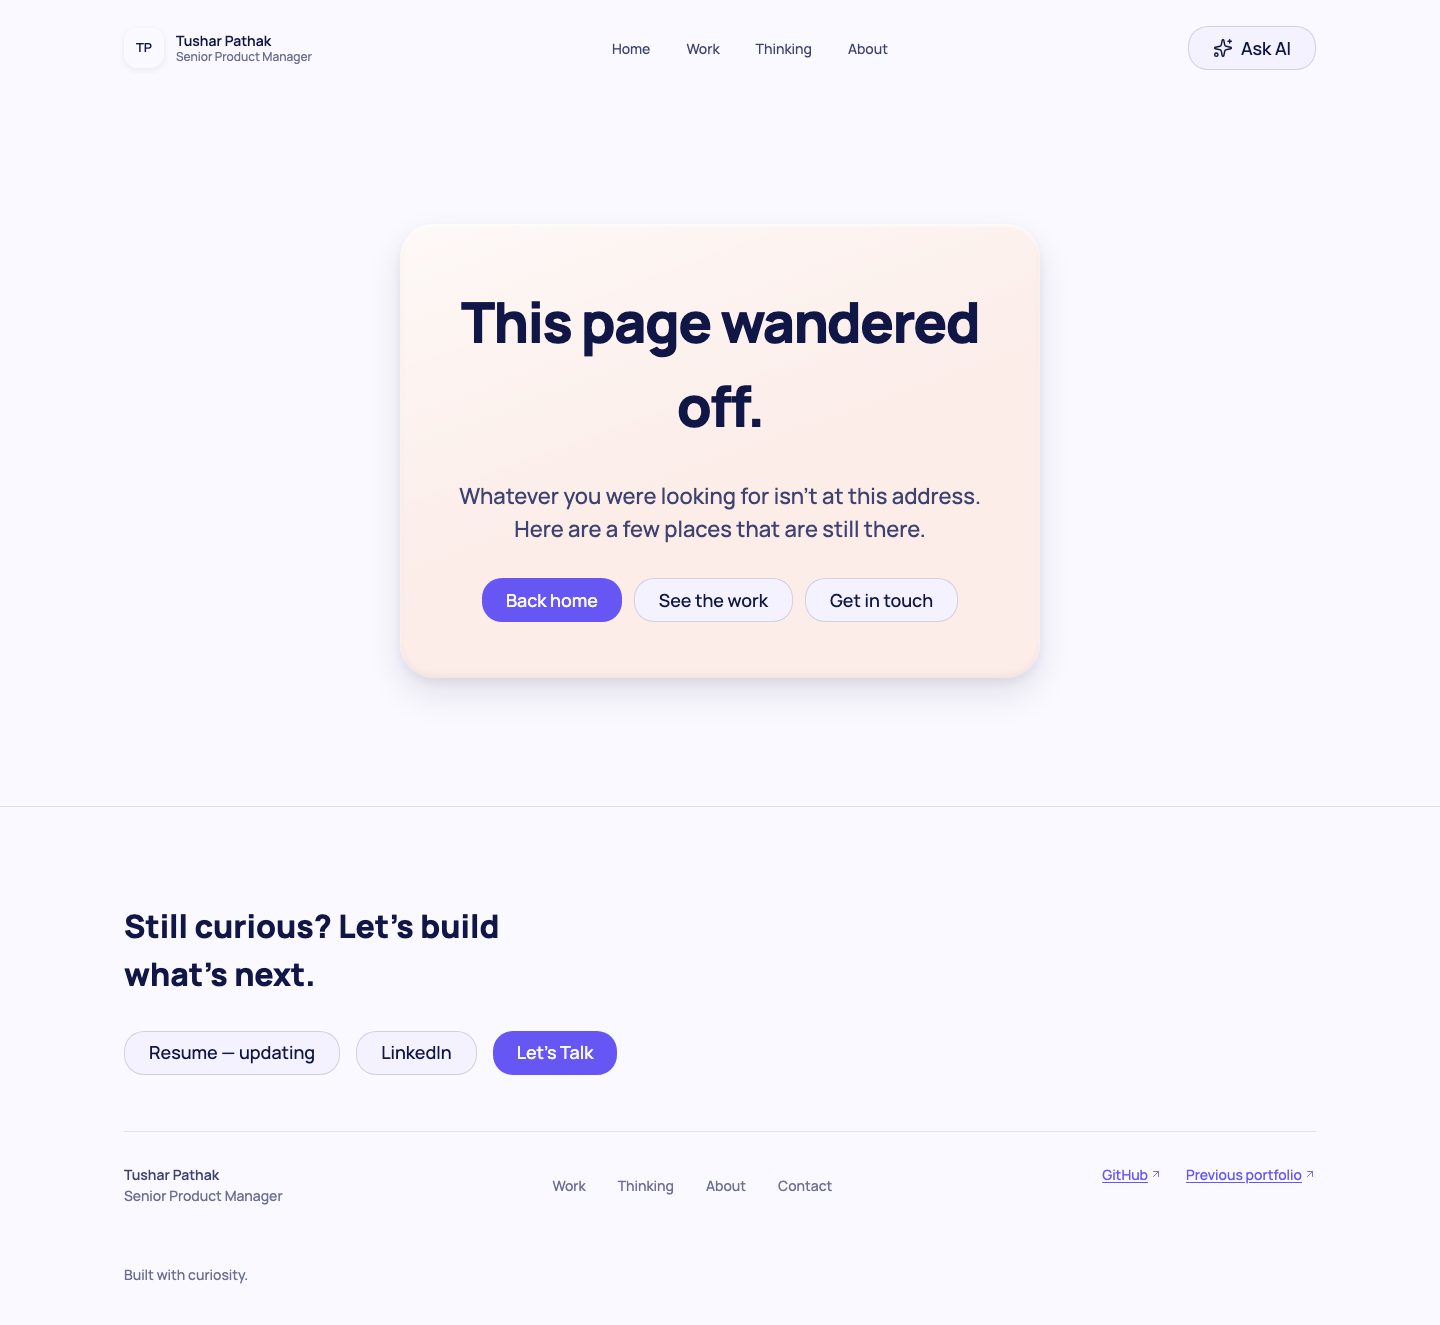
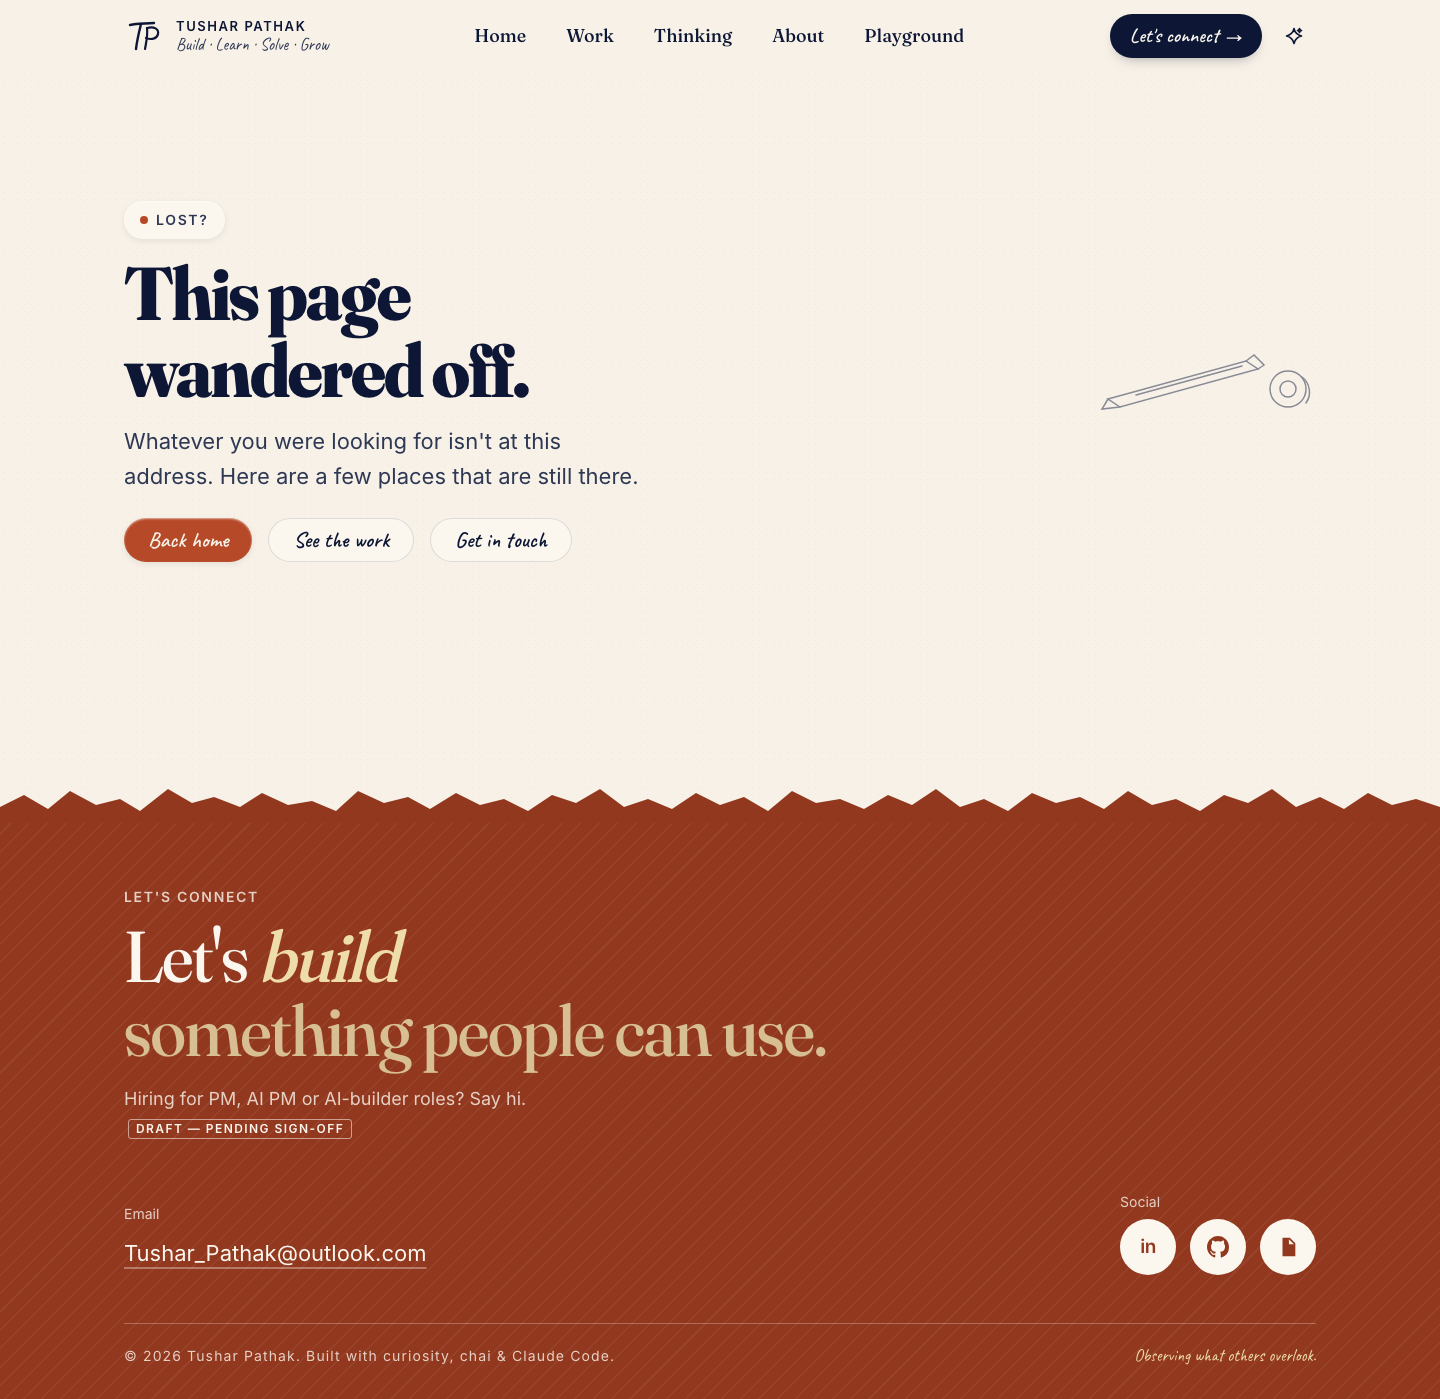
TSK-47: rebuild 404 in the paper system with the reused tools sketch
Replaces the legacy clay `not-found.tsx` with the paper spec (Design.md §4.3):
eyebrow, h1, lead, three CTAs, and the playground's tools sketch (one counted
decoration) at the right. Updates not-found.spec.ts for TC-171 (path, decoration
count, footer count, no-img check).

diff --git a/tests/e2e/not-found.spec.ts b/tests/e2e/not-found.spec.ts
@@ -1,51 +1,30 @@
 /**
- * not-found.spec.ts (TKT-46, M-006) — `app/not-found.tsx`, the site-wide 404.
+ * not-found.spec.ts (TSK-47, TKT-88, M-009 — TC-171) — `app/not-found.tsx`, the site-wide 404.
  *
  * Runs in all four viewport projects (w390/w768/w1024/w1440, playwright.config.ts).
- *   AC1 — `/nope` (an unknown path) responds with a real HTTP 404 AND renders this page's own h1
- *         (not a framework error page / blank body).
- *   AC2 — the three ways-back links (`/`, `/work`, `/contact`) exist and resolve 200.
- *   AC3 — axe clean + no horizontal overflow @390/1440 (the harness's standard two-width sweep,
- *         same convention as contact.spec.ts/about.spec.ts).
- * Plus: header + footer are present (inherited from the root layout, not duplicated here), and the
- * TDD-gate screenshot pack @390/1440.
+ *   Step 1 — an unknown path (`/definitely-missing`) responds with a real HTTP 404 AND renders
+ *            this page's own h1 (not a framework error page / blank body); the three ways-back
+ *            links (`/`, `/work`, `/contact`) exist in the page content.
+ *   Step 2 — the section's decoration count is exactly 1 (the reused `tools` sketch), and exactly
+ *            one `<footer>` renders (the global `BandFooter`, inherited from the root layout).
+ *   Step 3 — axe clean at 390 and 1440.
+ *   Step 4 — no illustration `<img>` (no new illustration spend, Design.md §12.4) and no
+ *            horizontal overflow at 390.
  */
 import { test, expect } from "./fixtures";
 
+const PATH = "/definitely-missing";
 const width = (page: import("@playwright/test").Page) => page.viewportSize()?.width ?? 0;
 
 // ---------------------------------------------------------------------------
-// AC1 — unknown path returns a real HTTP 404 and renders the page.
+// Step 1 — unknown path returns a real HTTP 404, renders the page, and carries the three CTAs.
 // ---------------------------------------------------------------------------
-test("an unknown path responds 404 and renders the not-found page", async ({ page }) => {
-  const response = await page.goto("/nope", { waitUntil: "load" });
+test("an unknown path responds 404 and renders the not-found page with its three CTAs", async ({ page }) => {
+  const response = await page.goto(PATH, { waitUntil: "load" });
   expect(response?.status(), "an unknown path must respond with a real HTTP 404").toBe(404);
   await expect(page.getByRole("heading", { level: 1 })).toHaveText("This page wandered off.");
-});
 
-// ---------------------------------------------------------------------------
-// Header + footer are inherited from the root layout, not duplicated on this page.
-// ---------------------------------------------------------------------------
-test("header and footer chrome are present on the 404 page", async ({ page }) => {
-  test.skip(width(page) !== 1440, "chrome presence is viewport-independent; checked once at w1440");
-  await page.goto("/nope", { waitUntil: "load" });
-
-  await expect(page.locator("header")).toBeVisible();
-  // .first(): the desktop nav and the (closed, off-canvas) MobileMenu dialog nav share the same
-  // aria-label (eval-015.spec.ts uses the identical .first() pattern) — this only asserts primary
-  // nav chrome exists, not which instance.
-  await expect(page.locator("nav[aria-label='Primary']").first()).toBeVisible();
-  await expect(page.locator("footer")).toBeVisible();
-});
-
-// ---------------------------------------------------------------------------
-// AC2 — the three ways-back links exist (scoped to <main>, since Header/Footer carry their own
-// "/", "/work", "/contact" links) and resolve 200.
-// ---------------------------------------------------------------------------
-test("the three ways-back links exist in the page content and resolve", async ({ page }) => {
   test.skip(width(page) !== 1440, "link resolution is viewport-independent; checked once at w1440");
-  await page.goto("/nope", { waitUntil: "load" });
-
   const main = page.locator("main");
   await expect(main.locator('a[href="/"]')).toHaveCount(1);
   await expect(main.locator('a[href="/work"]')).toHaveCount(1);
@@ -58,17 +37,57 @@ test("the three ways-back links exist in the page content and resolve", async ({
 });
 
 // ---------------------------------------------------------------------------
-// AC3 — axe clean + no overflow @390/1440.
+// Header + footer are inherited from the root layout, not duplicated on this page.
+// ---------------------------------------------------------------------------
+test("header and footer chrome are present on the 404 page", async ({ page }) => {
+  test.skip(width(page) !== 1440, "chrome presence is viewport-independent; checked once at w1440");
+  await page.goto(PATH, { waitUntil: "load" });
+
+  await expect(page.locator("header")).toBeVisible();
+  // .first(): the desktop nav and the (closed, off-canvas) MobileMenu dialog nav share the same
+  // aria-label — this only asserts primary nav chrome exists, not which instance.
+  await expect(page.locator("nav[aria-label='Primary']").first()).toBeVisible();
+});
+
+// ---------------------------------------------------------------------------
+// Step 2 — exactly one counted decoration (the reused `tools` sketch) and exactly one footer.
+// ---------------------------------------------------------------------------
+test("@EVAL-018 the section's only decoration is the reused tools sketch; exactly one footer renders", async ({
+  page,
+}) => {
+  test.skip(width(page) !== 1440, "decoration/footer count is viewport-independent; checked once at w1440");
+  await page.goto(PATH, { waitUntil: "load" });
+
+  const main = page.locator("main");
+  const decor = main.locator("[data-decor]");
+  await expect(decor).toHaveCount(1);
+  await expect(decor).toHaveAttribute("data-decor", "sketch");
+  await expect(decor).toHaveAttribute("data-sketch", "tools");
+
+  await expect(page.locator("footer")).toHaveCount(1);
+});
+
+// ---------------------------------------------------------------------------
+// Step 3 — axe clean @390/1440.
 // ---------------------------------------------------------------------------
 test("@EVAL-006 axe clean on the 404 page", async ({ page, axe }) => {
   test.skip(width(page) !== 390 && width(page) !== 1440, "axe sweep runs at 390 and 1440");
-  await page.goto("/nope", { waitUntil: "load" });
+  await page.goto(PATH, { waitUntil: "load" });
   await axe(page);
+});
+
+// ---------------------------------------------------------------------------
+// Step 4 — no illustration `<img>`, no overflow @390.
+// ---------------------------------------------------------------------------
+test("no illustration image renders on the 404 page", async ({ page }) => {
+  test.skip(width(page) !== 1440, "markup shape is viewport-independent; checked once at w1440");
+  await page.goto(PATH, { waitUntil: "load" });
+  await expect(page.locator("main img")).toHaveCount(0);
 });
 
 test("@EVAL-008 no horizontal overflow on the 404 page", async ({ page, noOverflow }) => {
   test.skip(width(page) !== 390 && width(page) !== 1440, "overflow sweep runs at 390 and 1440");
-  await page.goto("/nope", { waitUntil: "load" });
+  await page.goto(PATH, { waitUntil: "load" });
   await noOverflow(page);
 });
 
@@ -78,7 +97,7 @@ test("@EVAL-008 no horizontal overflow on the 404 page", async ({ page, noOverfl
 test("screenshot pack", async ({ page }) => {
   const w = width(page);
   test.skip(w !== 390 && w !== 1440, "screenshots captured at 390 and 1440 only");
-  await page.goto("/nope", { waitUntil: "load" });
+  await page.goto(PATH, { waitUntil: "load" });
   await page.screenshot({
     path: `docs/screenshots/not-found/${w}.png`,
     fullPage: true,

diff --git a/app/not-found.tsx b/app/not-found.tsx
@@ -1,49 +1,66 @@
-import { ClayButton } from "@/components/clay/ClayButton";
-import { ClayCard } from "@/components/clay/ClayCard";
+import Link from "next/link";
 import { Section } from "@/components/layout/Section";
+import { Sketch } from "@/components/paper/Sketch";
 
 /**
- * `app/not-found.tsx` (TKT-46, M-006) — the site-wide 404. Next's App Router renders this file
- * for any unmatched path (and for an explicit `notFound()` call, e.g. `app/work/[slug]/page.tsx`
- * on an unknown slug) INSIDE the root layout (`app/layout.tsx`), so `Header`/`Footer`/`SkipLink`/
- * `AskProvider` are inherited for free — nothing is duplicated here. The framework also sets the
- * HTTP 404 status itself for both paths; this file only supplies the content.
+ * `app/not-found.tsx` (TSK-47, TKT-88, M-009 — Design.md §4.3) — the site-wide 404. Next's App
+ * Router renders this file, inside the root layout, for any unmatched path and for an explicit
+ * `notFound()` call elsewhere (e.g. `app/work/[slug]/page.tsx` on an unknown slug), and sets the
+ * HTTP 404 status itself — this file only supplies the content. `Header`/`BandFooter`/`SkipLink`
+ * are inherited from `app/layout.tsx`, so nothing here duplicates them (TC-171 step 2's "exactly
+ * one footer" holds for free).
  *
- * One centred hero-tier `ClayCard` (same "flat page, one clay tile" shape `ContactCard` already
- * established for `/contact`), with a real `h1` (TKT-43 a11y scar: a heading-size token demands a
- * real heading element at a skip-free level — this page's own h1 is the only heading here, so the
- * outline stays clean) and three ways back: `/`, `/work`, `/contact`. No motion beyond the shared
- * `ClayButton` hover/press physics, which already collapse under `motion-reduce` — nothing here
- * autoplays. Static/server-rendered, same as every other route (TP1): no client data-fetching.
+ * One flat `paper` `<section>` (the site's default background — no `data-paper` override, per
+ * Design.md §4.3): eyebrow "Lost?" (plain label, deliberately NOT the `Annotation` component —
+ * §4.3 calls it "annotation-free"), h1, a short lead, and three ways back. The pencil-and-tape
+ * `tools` sketch is REUSED verbatim from `/playground` (`components/paper/sketch-paths.ts`) — no
+ * new illustration spend (§12.4) — and is this section's only counted decoration (TC-171 step 2).
+ * It hides below `lg` (1024px), mirroring the same sketch's own `display:none` breakpoint on the
+ * `/playground` bench board mockup, so it never risks overflow at 390 (TC-171 step 4).
  */
 export default function NotFound() {
   return (
-    <Section id="not-found" aria-label="Page not found">
-      <ClayCard
-        tier="hero"
-        tone="peach"
-        padding="hero"
-        className="mx-auto flex max-w-[640px] flex-col items-center gap-[var(--space-6)] text-center"
-      >
-        <h1 className="text-[length:var(--text-h2)] font-extrabold tracking-[var(--tracking-hero)] text-navy">
+    <Section
+      aria-label="Page not found"
+      containerClassName="grid items-center gap-[var(--space-8)] lg:grid-cols-[1fr_auto]"
+    >
+      <div className="flex max-w-[52ch] flex-col gap-[var(--space-4)]">
+        <span className="inline-flex w-fit items-center gap-[var(--space-2)] rounded-[var(--radius-pill)] bg-ivory px-[var(--space-4)] py-[var(--space-2)] text-[length:var(--text-caption)] font-semibold uppercase tracking-[var(--tracking-eyebrow)] text-navy-2 shadow-[var(--shadow-utility)]">
+          <span aria-hidden="true" className="inline-block h-2 w-2 rounded-full bg-rust" />
+          Lost?
+        </span>
+        <h1 className="text-[length:clamp(42px,5.2vw,76px)] font-extrabold tracking-[var(--tracking-hero)] text-navy">
           This page wandered off.
         </h1>
         <p className="text-[length:var(--text-lead)] text-navy-2">
           Whatever you were looking for isn&apos;t at this address. Here are a few places that are still there.
         </p>
-
-        <div className="flex flex-wrap items-center justify-center gap-[var(--space-3)]">
-          <ClayButton variant="primary" href="/">
+        <div className="mt-[var(--space-2)] flex flex-wrap items-center gap-[var(--space-4)]">
+          <Link
+            href="/"
+            data-hand="cta"
+            className="focus-ring inline-flex min-h-[44px] items-center rounded-[var(--radius-pill)] bg-rust px-[var(--space-5)] font-hand text-[22px] font-semibold text-paper shadow-[var(--shadow-utility)] transition-transform duration-150 ease-out hover:-translate-y-px motion-reduce:hover:translate-y-0"
+          >
             Back home
-          </ClayButton>
-          <ClayButton variant="secondary" href="/work">
+          </Link>
+          <Link
+            href="/work"
+            data-hand="cta"
+            className="focus-ring inline-flex min-h-[44px] items-center rounded-[var(--radius-pill)] border border-[var(--line)] bg-ivory px-[var(--space-5)] font-hand text-[22px] font-semibold text-navy transition-colors duration-150 ease-out hover:border-[var(--color-navy-2)]"
+          >
             See the work
-          </ClayButton>
-          <ClayButton variant="secondary" href="/contact">
+          </Link>
+          <Link
+            href="/contact"
+            data-hand="cta"
+            className="focus-ring inline-flex min-h-[44px] items-center rounded-[var(--radius-pill)] border border-[var(--line)] bg-ivory px-[var(--space-5)] font-hand text-[22px] font-semibold text-navy transition-colors duration-150 ease-out hover:border-[var(--color-navy-2)]"
+          >
             Get in touch
-          </ClayButton>
+          </Link>
         </div>
-      </ClayCard>
+      </div>
+
+      <Sketch variant="tools" className="hidden w-[220px] shrink-0 justify-self-end lg:block" />
     </Section>
   );
 }

diff --git a/docs/reports/TSK-47.md b/docs/reports/TSK-47.md
@@ -1,0 +1,40 @@
+# TSK-47 · 404 in the paper system
+
+Branch `m009/tkt-88c`, worktree `Portfolio-m009-tkt-88c`. Parent TKT-88 (`TASK-83`), TC-171, Design.md §4.3 / §3.3.
+
+## AC checklist (TKT-88 AC3)
+
+- [x] Renders at an unknown route (`/definitely-missing`) with HTTP 404 status — `not-found.spec.ts` step 1.
+- [x] Three CTAs present and resolving 200: "Back home" → `/`, "See the work" → `/work`, "Get in touch" → `/contact`.
+- [x] Band footer follows (inherited from `app/layout.tsx`; `footer` count = 1).
+- [x] axe clean at 390 and 1440.
+- [x] Decoration count = 1 (`[data-decor]` in `<main>` = 1, the reused `tools` sketch), matching Design.md §3.3's "404 → tools sketch (reused from playground) → 1".
+- [x] No overflow at 390.
+- [x] No `<img>` (no new illustration spend, §12.4).
+
+## What changed
+
+- `app/not-found.tsx` — rewritten from the legacy `ClayCard`/`ClayButton` M-006 page to the paper system: one `Section` (`aria-label="Page not found"`), eyebrow "Lost?" (plain label, not `Annotation` — §4.3 calls it "annotation-free"), h1 "This page wandered off." at `clamp(42px, 5.2vw, 76px)` (Design.md's exact clamp), the original lead line kept (no sourced 404 copy exists in `data/*.ts` or `CONTENT_INVENTORY.md`; same convention `WorkHero`/`PlaygroundHero` use for inline, non-invented copy), and the three CTAs as pill `Link`s (`data-hand="cta"`, ≤ 6 words each, Caveat via `font-hand`, ≥ 44px tall). The `tools` `Sketch` (already defined in `components/paper/sketch-paths.ts`, reused verbatim from the `/playground` bench board) sits at the right, hidden below `lg` (1024px) — mirroring the same sketch's own `display:none` breakpoint on the playground mockup, so nothing risks overflow at 390.
+- `tests/e2e/not-found.spec.ts` — rewritten for TC-171: target path changed `/nope` → `/definitely-missing`; new decoration-count + footer-count assertion (`@EVAL-018`); new "no illustration `<img>`" assertion; kept the HTTP-404 + h1 + link-resolution, chrome-presence, axe (`@EVAL-006`), no-overflow (`@EVAL-008`) and screenshot-pack tests from the prior M-006 suite.
+
+No other files touched. No `app/globals.css` edit needed — the `tools` sketch's stroke styling (`.sketch[data-sketch="tools"]`) and all layout primitives (`Section`, `Container`, tokens, `focus-ring`, `bg-rust`/`text-navy-2`/etc. utilities) already existed from earlier tickets.
+
+## Gate output (`heavy.sh`, single locked run)
+
+```
+pnpm typecheck   → next typegen + tsc --noEmit: clean
+pnpm lint        → eslint .: clean
+predeploy/content→ predeploy OK; content OK (projects:14 experience:4 skills:4 writing:5 knowledge:11 thinking:6)
+pnpm build       → Compiled successfully; all routes static (13); /_not-found present
+tests/e2e/not-found.spec.ts (w1440 + w390) → 10 passed, 4 skipped (viewport-independent tests skip on the non-canonical width), 0 failed
+```
+
+## Screenshots
+
+`docs/screenshots/not-found/1440.png`, `docs/screenshots/not-found/390.png` — read both: paper background, eyebrow/h1/lead/CTA row, tools sketch visible at 1440 and correctly hidden at 390, band footer below, no clay/overflow artifacts.
+
+## Merge notes
+
+- No shared files touched (no `globals.css` append needed).
+- No files needed that I don't own.
+- Dependency TSK-45 (tools sketch) was already satisfied pre-fanout — `Sketch variant="tools"` and its `sketch-paths.ts` entry already existed in this worktree, so no coordination needed with the parallel `/playground` implementer.
